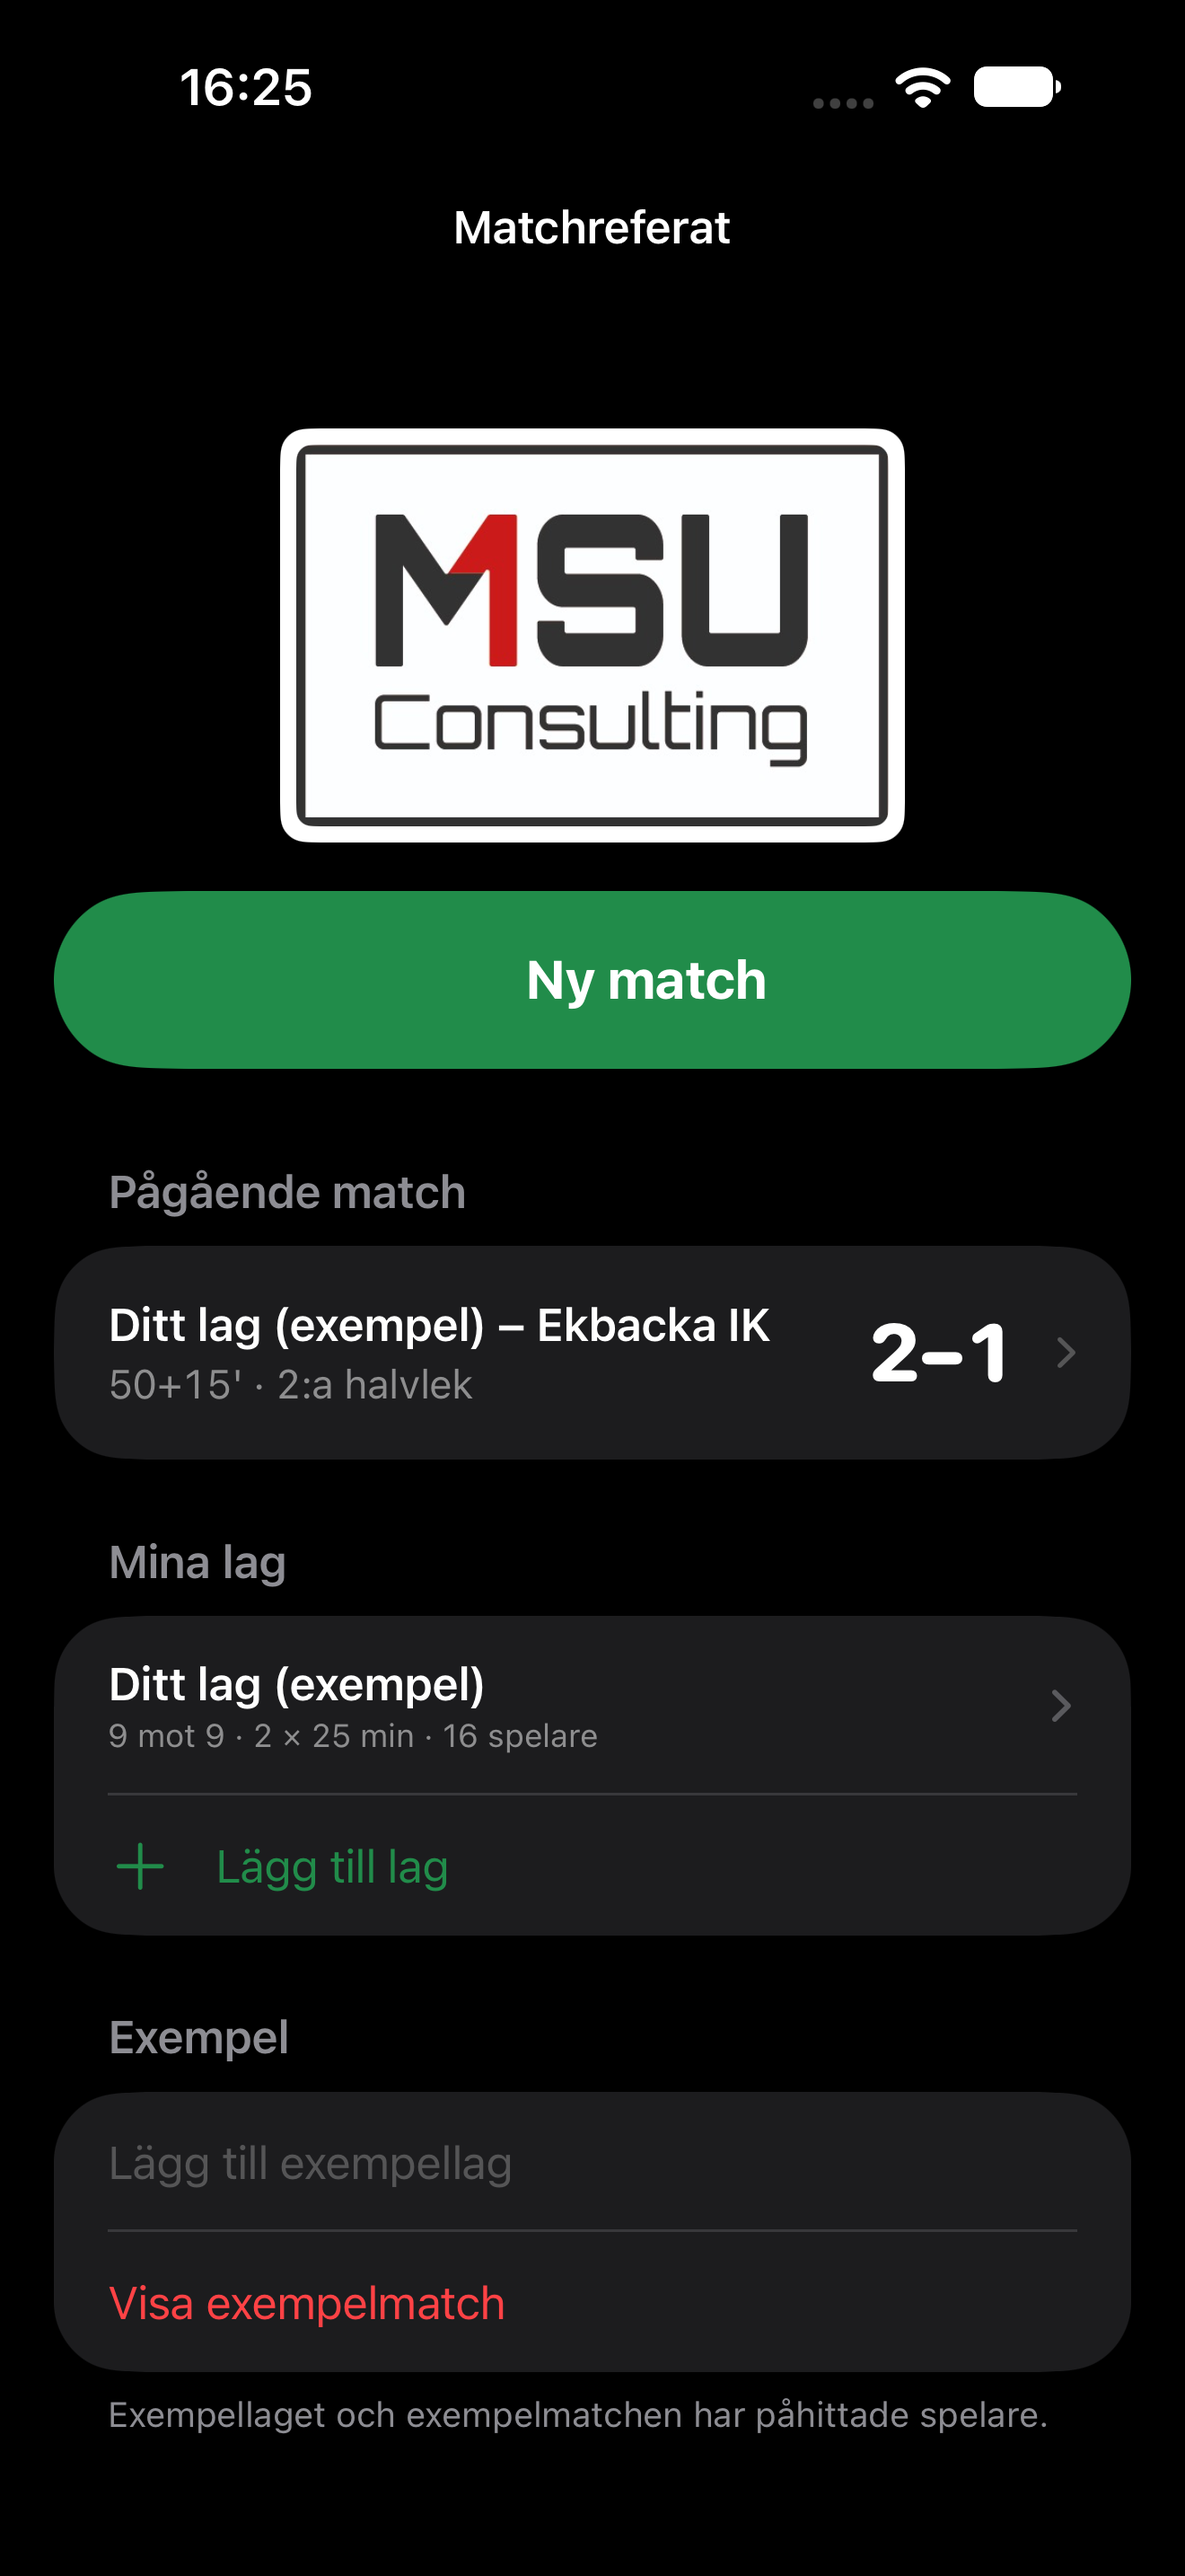
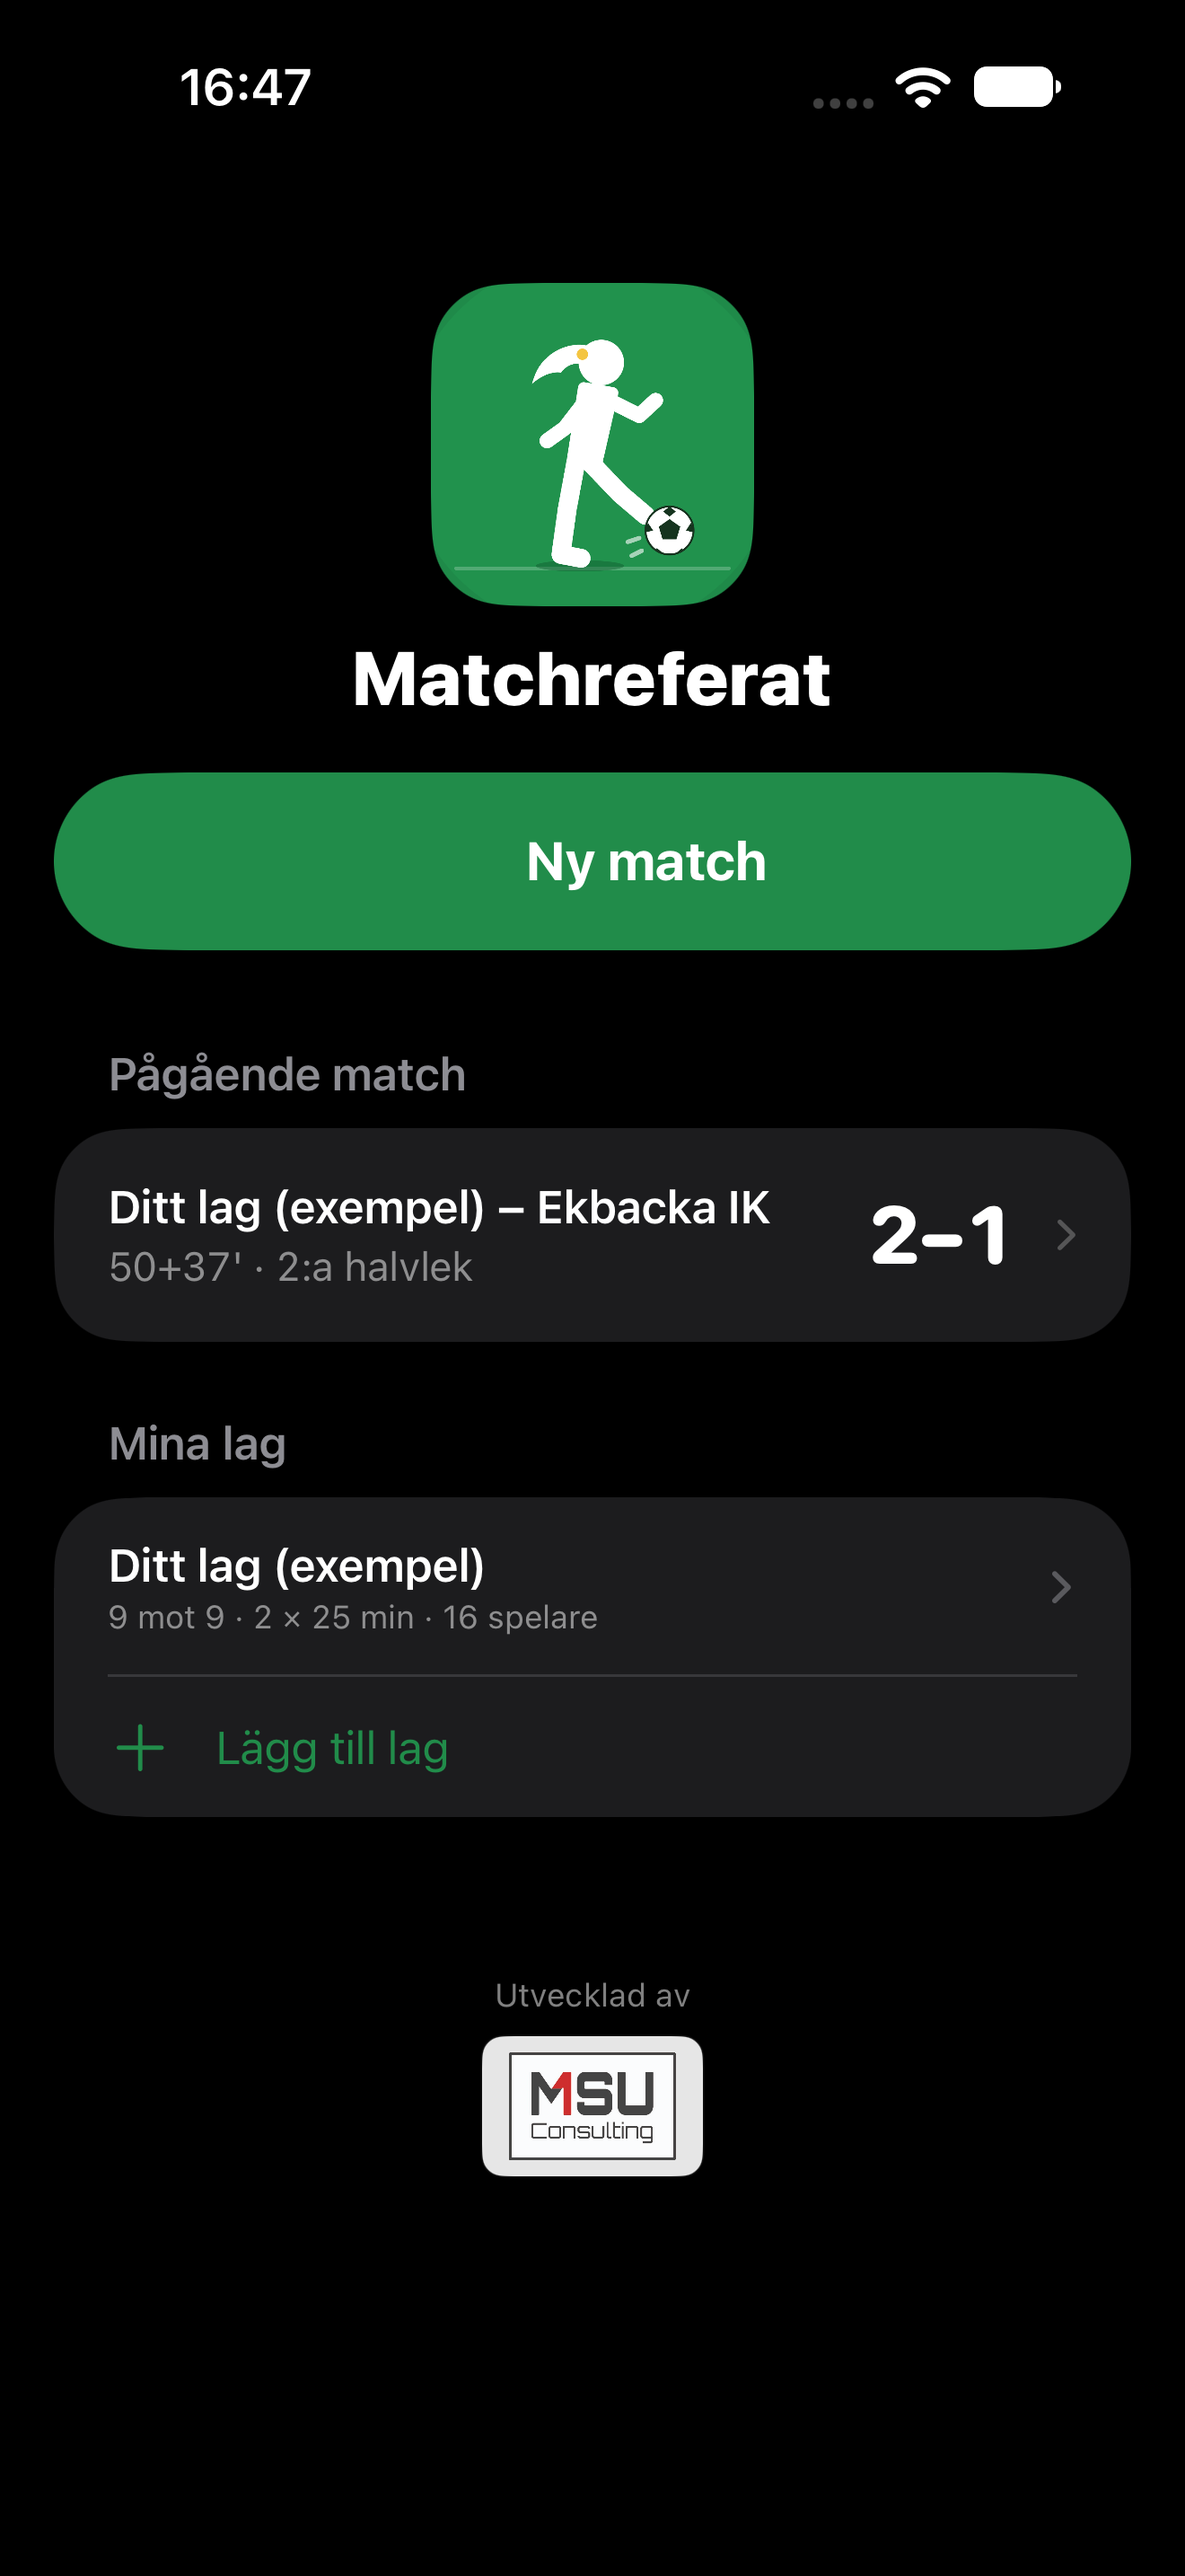
Egen logga och appikon (tjej som sparkar boll), M1SU-loggan i botten
- branding/app-logo.svg: originalgrafik, renderad till branding/app-icon-1024.png.
- Startsidan: appens logga och namn överst, exempelsektionen borttagen,
  'Utvecklad av' med M1SU-loggan längst ner.
- Appikon från samma grafik.

diff --git a/Sources/StartView.swift b/Sources/StartView.swift
@@ -4,7 +4,6 @@ import SwiftUI
 struct StartView: View {
     @Environment(MatchStore.self) private var store
     @State private var showNewMatch = false
-    @State private var confirmReset = false
 
     var body: some View {
         @Bindable var store = store
@@ -59,27 +58,14 @@ struct StartView: View {
             }
 
             Section {
-                Button("Lägg till exempellag") { store.addExampleTeam() }
-                    .disabled(store.teams.contains { $0.id == MatchState.exampleTeamID })
-                Button("Visa exempelmatch", role: .destructive) { confirmReset = true }
-            } header: {
-                Text("Exempel")
-            } footer: {
-                Text("Exempellaget och exempelmatchen har påhittade spelare.")
+                MadeBy()
+                    .frame(maxWidth: .infinity)
+                    .listRowBackground(Color.clear)
+                    .listRowInsets(EdgeInsets(top: 24, leading: 0, bottom: 8, trailing: 0))
             }
         }
-        .navigationTitle("Matchreferat")
-        .navigationBarTitleDisplayMode(.inline)
+        .toolbar(.hidden, for: .navigationBar)
         .sheet(isPresented: $showNewMatch) { NewMatchSheet() }
-        .alert("Visa exempelmatchen?", isPresented: $confirmReset) {
-            Button("Visa", role: .destructive) {
-                store.reset()
-                store.showMatch = true
-            }
-            Button("Avbryt", role: .cancel) {}
-        } message: {
-            Text("Den pågående matchen ersätts med exempelmatchen.")
-        }
         .onAppear {
             // `-demoSheet newMatch` opens the new match sheet (used for screenshots).
             if UserDefaults.standard.string(forKey: "demoSheet") == "newMatch" { showNewMatch = true }
@@ -87,29 +73,41 @@ struct StartView: View {
     }
 }
 
-/// Mikael's M1SU logo from the asset catalog ("Logo"), with a placeholder if it is missing.
+/// The app logo (a girl kicking a football) with the app name.
 struct Logo: View {
     var body: some View {
-        if UIImage(named: "Logo") != nil {
-            // The logo has a white background, so it sits on a white card in dark mode too.
+        VStack(spacing: 10) {
+            Image("AppLogo")
+                .resizable()
+                .scaledToFit()
+                .frame(width: 120, height: 120)
+                .clipShape(RoundedRectangle(cornerRadius: 28, style: .continuous))
+                .shadow(color: .black.opacity(0.15), radius: 8, y: 4)
+                .accessibilityHidden(true)
+            Text("Matchreferat")
+                .font(.title.weight(.heavy))
+        }
+    }
+}
+
+/// Small "Utvecklad av" credit with Mikael's M1SU Consulting logo. The logo is a JPG with a
+/// white background, so it sits on a white card that also looks deliberate in dark mode.
+struct MadeBy: View {
+    var body: some View {
+        VStack(spacing: 8) {
+            Text("Utvecklad av")
+                .font(.caption)
+                .foregroundStyle(.secondary)
             Image("Logo")
                 .resizable()
                 .scaledToFit()
-                .frame(maxWidth: 220)
-                .clipShape(RoundedRectangle(cornerRadius: 6))
-                .padding(6)
-                .background(.white, in: RoundedRectangle(cornerRadius: 10))
+                .frame(height: 40)
+                .padding(.horizontal, 10)
+                .padding(.vertical, 6)
+                .background(.white, in: RoundedRectangle(cornerRadius: 8, style: .continuous))
+                .overlay(RoundedRectangle(cornerRadius: 8, style: .continuous).stroke(Color.primary.opacity(0.08)))
+                .opacity(0.9)
                 .accessibilityLabel("M1SU Consulting")
-        } else {
-            VStack(spacing: 8) {
-                Image(systemName: "soccerball")
-                    .font(.system(size: 52, weight: .semibold))
-                    .foregroundStyle(.white)
-                    .frame(width: 96, height: 96)
-                    .background(Theme.green, in: Circle())
-                Text("Matchreferat")
-                    .font(.title2.weight(.heavy))
-            }
         }
     }
 }
